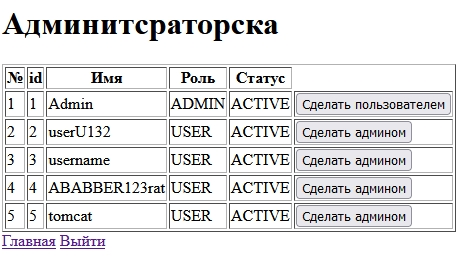
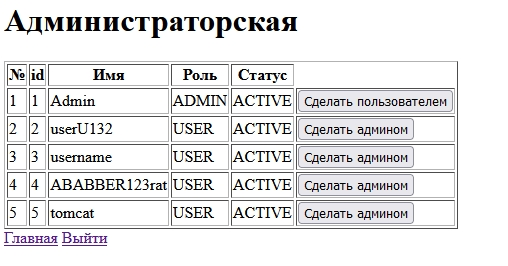
Добавлен README

diff --git a/src/main/resources/templates/admin.html b/src/main/resources/templates/admin.html
@@ -5,7 +5,7 @@
     <title>Администраторска</title>
 </head>
 <body>
-<h1>Админитсраторска</h1>
+<h1>Администраторская</h1>
 
 <div th:if="${!users.isEmpty()}">
     <table border="1">
